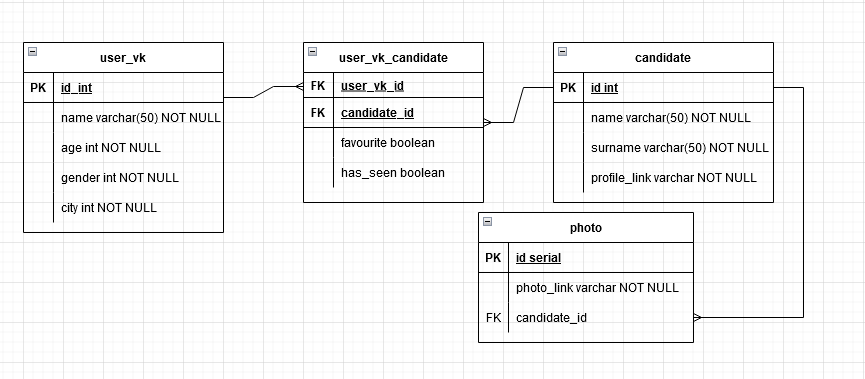
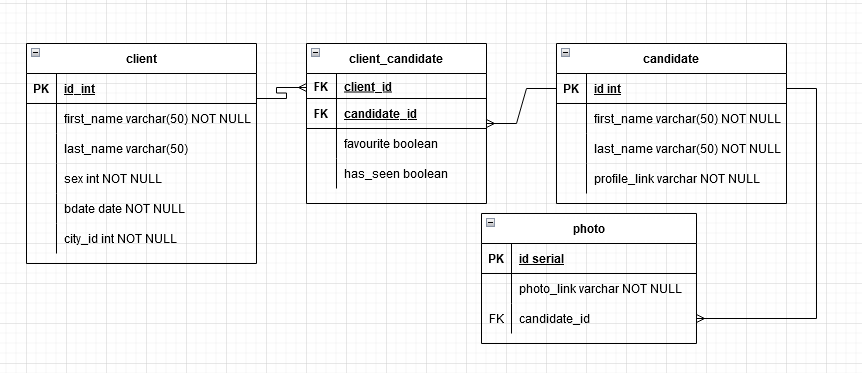
Changed tables

Changed region(s): [[0.0302, 0.0885, 0.935, 0.9142], [0.2715, 0.6783, 0.3016, 0.7078]]

diff --git a/dating_db.py b/dating_db.py
@@ -12,10 +12,10 @@ class DatingDB:
         self.conn = psycopg2.connect(database=self.db_name, user=self.user_name, password=self.password)
         self.cur = self.conn.cursor()
     
-    # проверка наличия записи в таблице user_vk 
-    def check_user_id(self, id):
+    # проверка наличия записи в таблице client 
+    def check_client_id(self, id):
         self.cur.execute("""
-        SELECT EXISTS (SELECT name FROM user_vk WHERE id=%s)
+        SELECT EXISTS (SELECT first_name FROM client WHERE id=%s)
         """, (id,))
         check_id = self.cur.fetchone()
         return check_id[0]
@@ -23,35 +23,34 @@ class DatingDB:
     # проверка наличия записи в таблице candidate
     def check_candidate_id(self, id):
         self.cur.execute("""
-        SELECT EXISTS (SELECT name FROM candidate WHERE id=%s)
+        SELECT EXISTS (SELECT first_name FROM candidate WHERE id=%s)
         """, (id,))
         check_id = self.cur.fetchone()
         return  check_id[0]
 
-    # проверка наличия записи в таблице user_vk_candidate
-    def check_user_vk_candidate_id(self, user_id, candidate_id):
+    # проверка наличия записи в таблице client_candidate
+    def check_client_candidate_id(self, client_id, candidate_id):
         self.cur.execute("""
-        SELECT EXISTS (SELECT user_vk_id FROM user_vk_candidate 
-                        WHERE user_vk_id=%s AND candidate_id=%s);
-        """, (user_id, candidate_id))
+        SELECT EXISTS (SELECT client_id FROM client_candidate 
+                        WHERE client_id=%s AND candidate_id=%s);
+        """, (client_id, candidate_id))
         check_id = self.cur.fetchone()
         return  check_id[0]
 
-    # добавление записи в таблицу candidate
-    def add_user(self, id, first_name, age, gender, city):              
+    # добавление записи в таблицу client
+    def add_client(self, id, first_name, last_name, sex, bdate, city_id):              
         self.cur.execute("""
-        INSERT INTO user_vk(id, name, age, gender, city) VALUES (%s, %s, %s, %s, %s);            
-        """, (id, first_name, age, gender, city))        
+        INSERT INTO client(id, first_name, last_name, sex, bdate, city_id) VALUES (%s, %s, %s, %s, %s, %s);            
+        """, (id, first_name, last_name, sex, bdate, city_id))        
         self.conn.commit()        
         return 
 
     # добавление записи в таблицу candidate
     def add_candidate(self, id, first_name, last_name, profile):        
-        if self.check_candidate_id(id) is False:
-            self.cur.execute("""
-            INSERT INTO candidate(id, name, surname, profile_link) VALUES (%s, %s, %s, %s);
-            """, (id, first_name, last_name, profile))        
-            self.conn.commit()                        
+        self.cur.execute("""
+        INSERT INTO candidate(id, name, surname, profile_link) VALUES (%s, %s, %s, %s);
+        """, (id, first_name, last_name, profile))        
+        self.conn.commit()                        
         return 
 
     # добавление записи в таблицу photo
@@ -63,27 +62,27 @@ class DatingDB:
         self.conn.commit()        
         return 
 
-    # добавление записи в таблицу user_vk_candidate
-    def add_user_vk_candidate(self, user_id, candidate_id, favourite=False, has_seen=False):
+    # добавление записи в таблицу client_candidate
+    def add_client_candidate(self, client_id, candidate_id, favourite=False, has_seen=False):
         self.cur.execute("""
-        INSERT INTO user_vk_candidate(user_vk_id, candidate_id, favourite, has_seen) VALUES (%s, %s, %s, %s)        
-        """, (user_id, candidate_id, favourite, has_seen))        
+        INSERT INTO client_candidate(client_id, candidate_id, favourite, has_seen) VALUES (%s, %s, %s, %s)        
+        """, (client_id, candidate_id, favourite, has_seen))        
         self.conn.commit()        
         return 
     
     # получение инфо(для критериев поиска) 
-    def get_user_info(self, user_id):
+    def get_client_info(self, user_id):
         self.cur.execute("""
-        SELECT name, age, gender, city FROM user_vk;            
+        SELECT id, first_name, last_name, sex, bdate, city_id FROM client;            
         """, (user_id,))
         return self.cur.fetchall()
 
     # получение списка кандидатов для отображения пользователю
     def get_candidates(self, user_id):
         self.cur.execute("""
-        SELECT c.id, c.name, c.surname, c.profile_link FROM candidate c
-        JOIN user_vk_candidate uvc ON c.id = uvc.candidate_id
-        WHERE uvc.user_vk_id = %s;          
+        SELECT c.id, c.first_name, c.last_name, c.profile_link FROM candidate c
+        JOIN client_candidate clc ON c.id = clc.candidate_id
+        WHERE clc.client_id = %s;          
         """, (user_id,))
         return self.cur.fetchall()       
 
@@ -91,7 +90,7 @@ class DatingDB:
     def mark_favourite(self, user_id, candidate_id, favourite=None):
         if favourite is not None:
             self.cur.execute("""
-            UPDATE user_vk_candidate SET favourite=%s WHERE user_vk_id=%s AND candidate_id=%s;
+            UPDATE client_candidate SET favourite=%s WHERE client_id=%s AND candidate_id=%s;
             """, (favourite, user_id, candidate_id))
             self.conn.commit() 
 
@@ -99,16 +98,16 @@ class DatingDB:
     def mark_has_seen(self, user_id, candidate_id, has_seen=None):
         if has_seen is not None:
             self.cur.execute("""
-            UPDATE user_vk_candidate SET has_seen=%s WHERE user_vk_id=%s AND candidate_id=%s;
+            UPDATE client_candidate SET has_seen=%s WHERE client_id=%s AND candidate_id=%s;
             """, (has_seen, user_id, candidate_id))
             self.conn.commit() 
 
     # формирование списка избранного
     def show_favourites(self, user_id):
         self.cur.execute("""
-        SELECT c.id, c.name, c.surname, c.profile_link FROM user_vk_candidate uvc
-        JOIN candidate c ON uvc.candidate_id = c.id
-        WHERE uvc.favourite is True AND uvc.user_vk_id=%s;
+        SELECT c.id, c.first_name, c.last_name, c.profile_link FROM client_candidate clc
+        JOIN candidate c ON clc.candidate_id = c.id
+        WHERE clc.favourite is True AND clc.client_id=%s;
         """, (user_id,))     
                 
     def disconnect_db(self):
